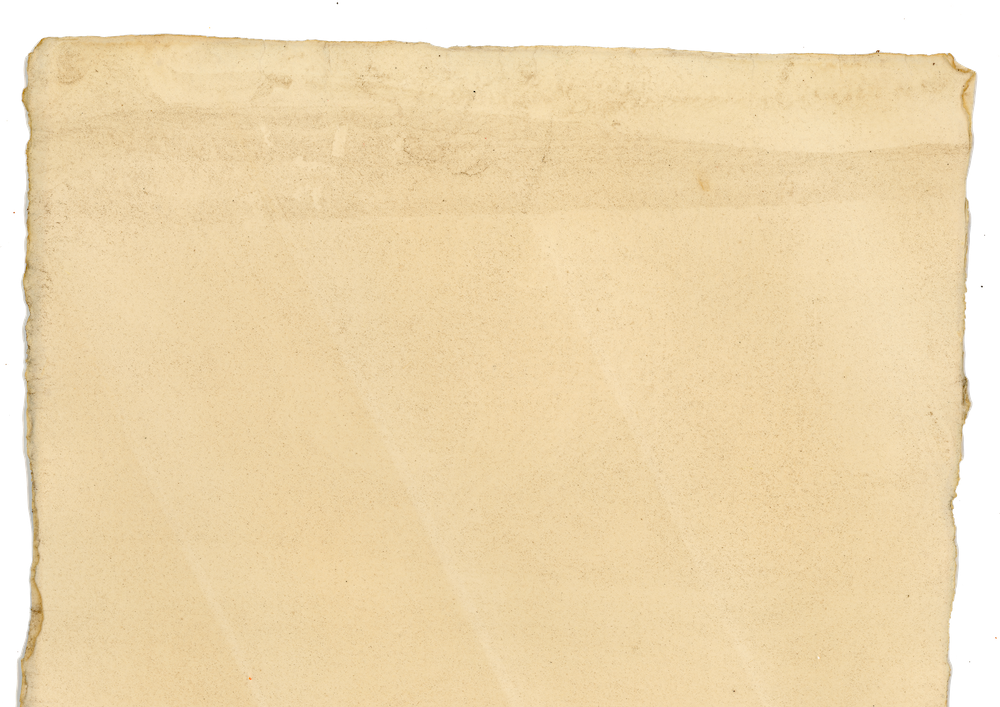
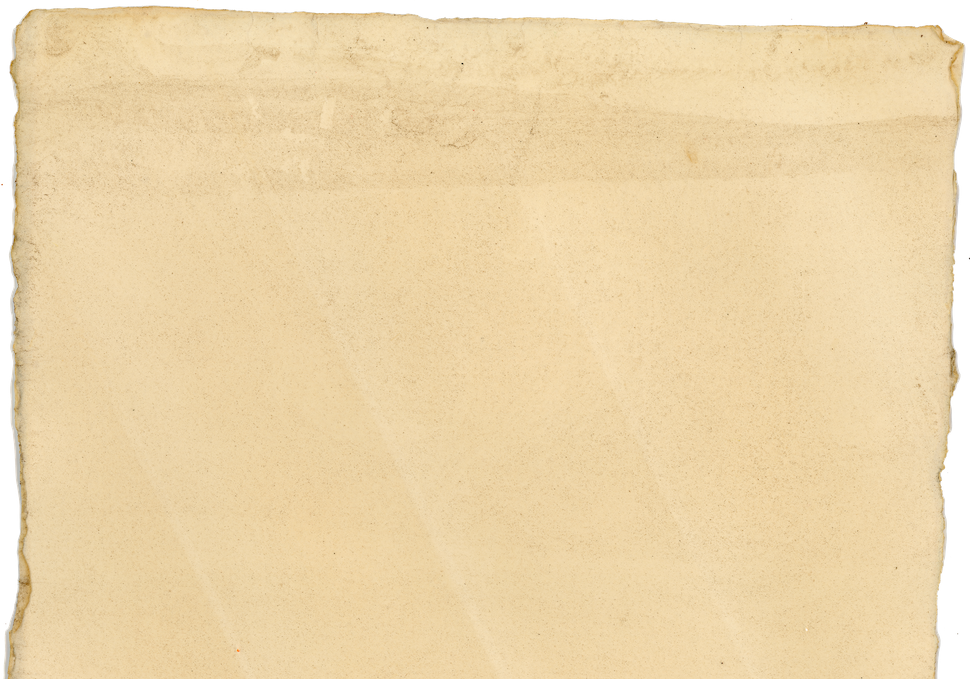
fixed

diff --git a/src/routes/voting/tally.js b/src/routes/voting/tally.js
@@ -1,7 +1,4 @@
-import "@scss/voting.scss";
-import Container from 'react-bootstrap/Container';
-import Row from 'react-bootstrap/Row';
-import Col from 'react-bootstrap/Col';
+import "@scss/tally.scss";
 import Button from "react-bootstrap/Button";
 import Form from "react-bootstrap/Form";
 
@@ -28,25 +25,13 @@ export default function Tally({allUserData}) {
   });
 
   return (
-    <div className="voting__wrapper">
-      <Container>
-        <Row className="align-items-center">
-          <Col>
-            <h3>Village Rumors</h3>
-            <p><strong>Suspected to be a werewolf:</strong></p>
-          </Col>
-        </Row>
-        <Row className="align-items-center">
-          <Col>
-            <Form>
-              {votingOptionsWithTallys}
-              <Button variant="primary" type="submit">
-                Vote
-              </Button>
-            </Form>
-          </Col>
-        </Row>
-      </Container>
+    <div className="tally__wrapper">
+      <h3>Village Rumors</h3>
+      <p><strong>Suspected to be a werewolf:</strong></p>
+      {votingOptionsWithTallys}
+      <Button variant="primary" type="submit">
+        Vote
+      </Button>
     </div>
   );
 }

diff --git a/src/scss/diurnal.scss b/src/scss/diurnal.scss
@@ -5,11 +5,7 @@
   min-width: 100vw;
   justify-content: center;
   align-items: center;
-  // background: #e1f8ff;
-
-  &__night {
-    // background: #00008b;
-  }
+  padding: 4rem 2rem;
 
   .btn {
     white-space: nowrap;
@@ -25,15 +21,10 @@
     width: 100%;
     min-height: 600px;
     background-size: cover;
-    padding: 5rem 5rem 5rem 10rem;
+    padding: 4rem;
 
     @media screen and (width <= 780px) {
-      padding: 1rem 1rem 1rem 5rem;
-      background-size: contain;
-    }
-
-    @media screen and (width <= 550px) {
-      padding: 0 0 0 2.5rem;
+      padding: 2rem;
     }
 
     /* The flip card container - set the width and height to whatever you want. We have added the border property to demonstrate that the flip itself goes out of the box on hover (remove perspective if you don't want the 3D effect */

diff --git a/src/routes/diurnal/diurnal.js b/src/routes/diurnal/diurnal.js
@@ -7,7 +7,7 @@ import Views from '../views/views.js';
 import Tally from '../voting/tally.js';
 import Voting from '../voting/voting.js';
 import "@scss/diurnal.scss";
-import paper from '../../assets/paper.png';
+import paper3 from '../../assets/paper3.png';
 import { useState, useMemo } from 'react';
 import { useSelector } from "react-redux";
 
@@ -49,7 +49,7 @@ export default function Diurnal({ isDay }) {
       </Offcanvas>
       <div
         className="diurnal__wrapper"
-        style={{ backgroundImage: "url(" + paper + ")" }}
+        style={{ backgroundImage: "url(" + paper3 + ")" }}
       >
         <Container>
           <Row className="align-items-flex-start">

diff --git a/src/routes/voting/voting.js b/src/routes/voting/voting.js
@@ -28,7 +28,7 @@ export default function Voting({ allUserData }) {
 
   return (
     <div className="voting__wrapper">
-      <h2>{actionText}</h2>
+      <h3>{actionText}</h3>
       <Form>
         {votingOptions}
         <Button variant="primary" type="submit">

diff --git a/src/scss/loseScreen.scss b/src/scss/loseScreen.scss
@@ -9,8 +9,8 @@
   background-size: cover;
   display: flex;
   flex-direction: column;
-}
 
-h3 {
-  margin-top: 200px;
+  h3 {
+    margin-top: 200px;
+  }
 }

diff --git a/src/scss/tally.scss b/src/scss/tally.scss
@@ -1,4 +1,4 @@
-.voting {
+.tally {
   &__wrapper {
     // padding-top: 1rem;
     font-family: "Nanum Brush Script", cursive;
